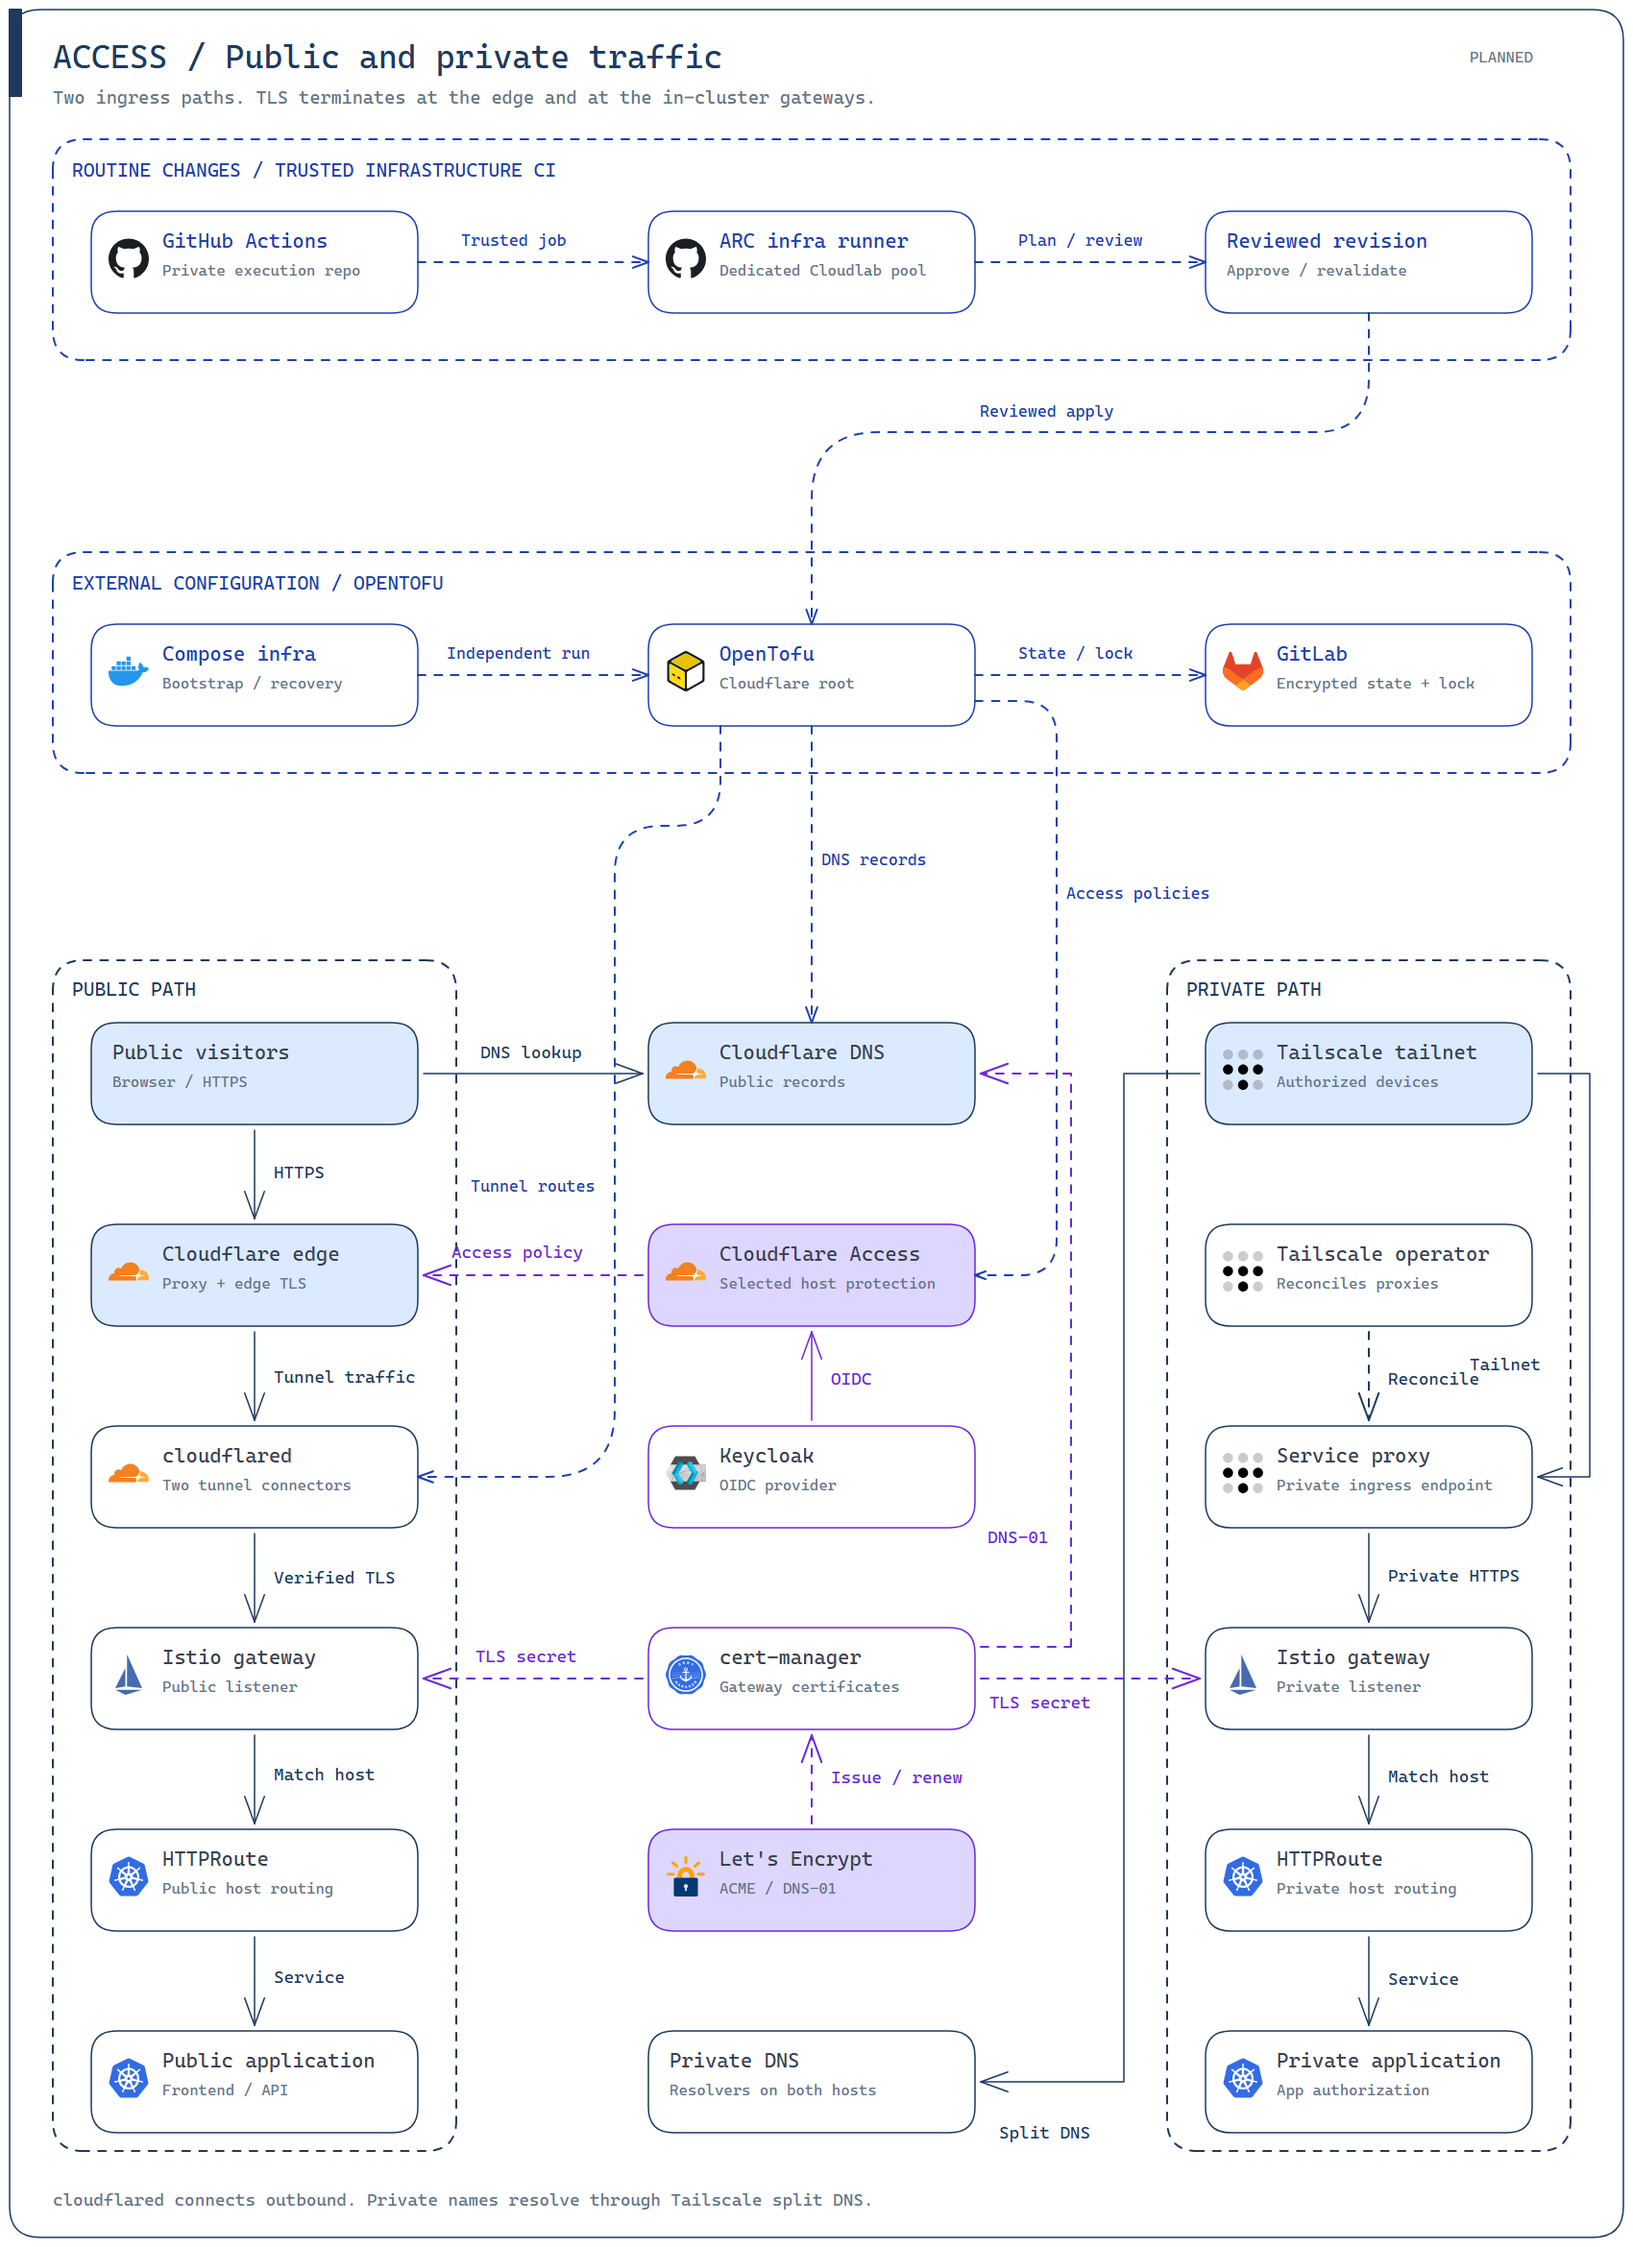
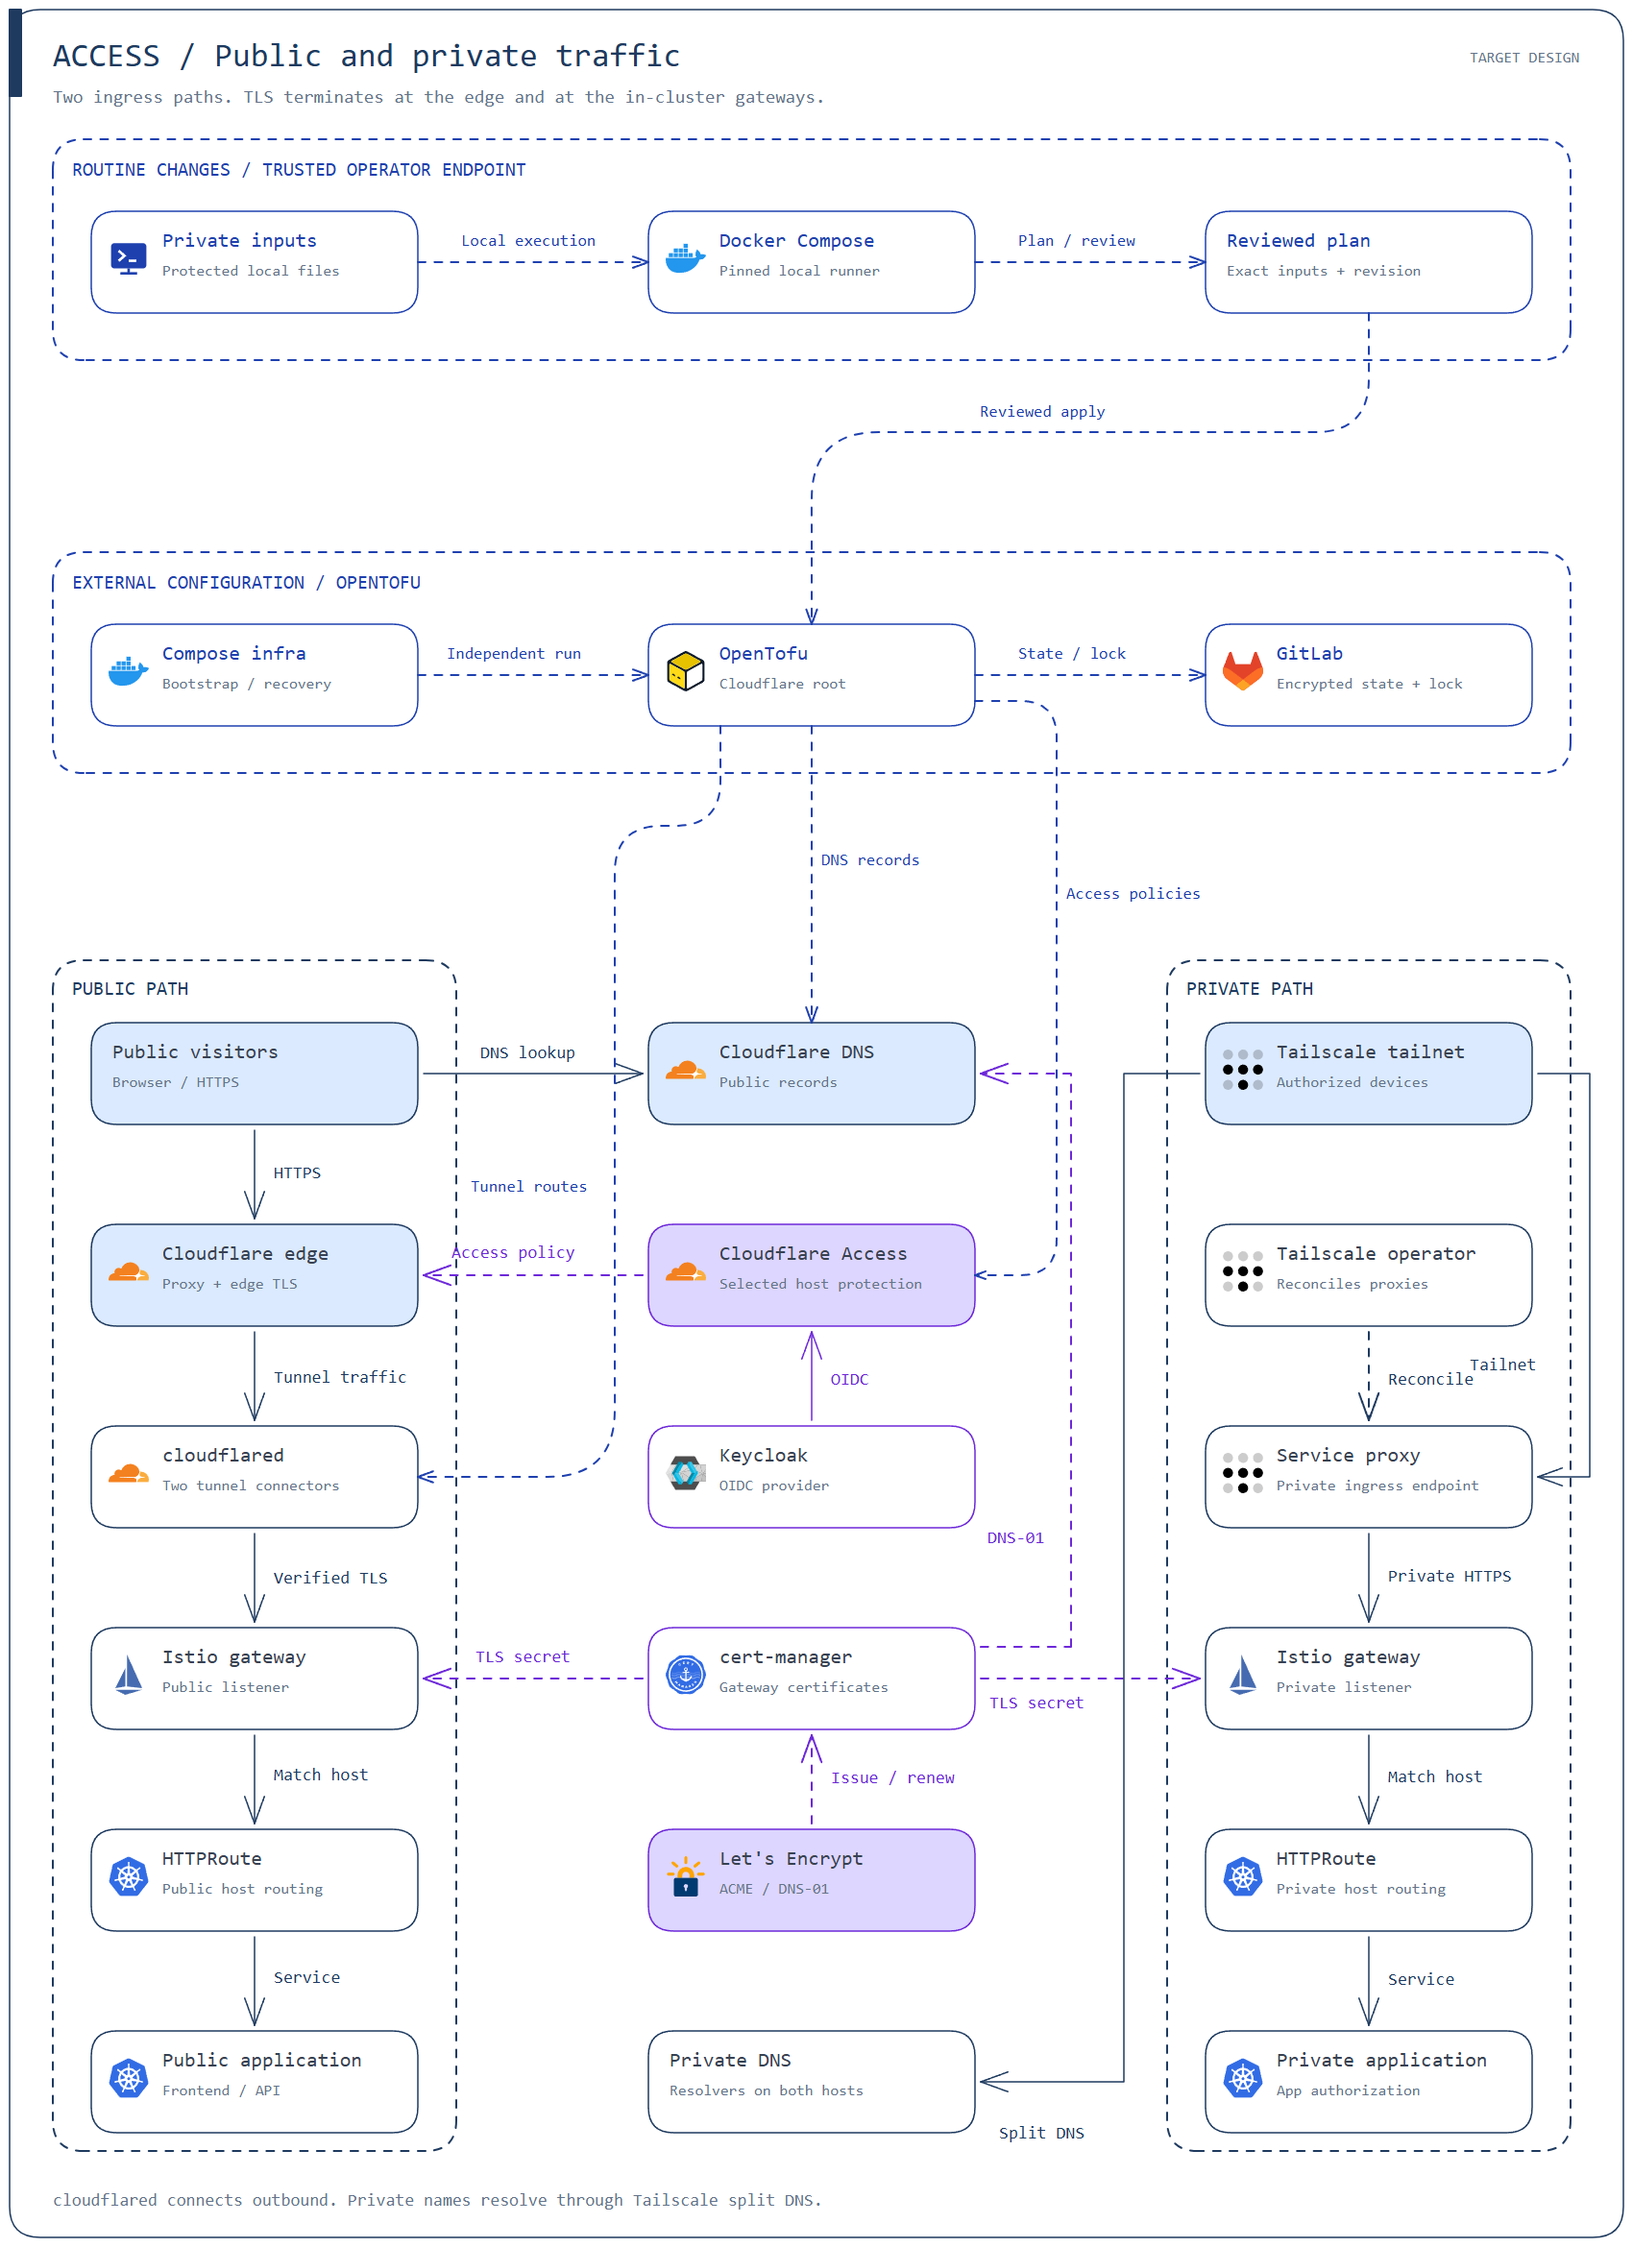
docs: review all architecture views and refresh captions

diff --git a/README.md b/README.md
@@ -6,6 +6,9 @@ A K3s cluster on two cloud VMs, managed with Ansible and Docker Compose.
 
 ## Architecture
 
+Ansible manages hosts, Argo CD manages Kubernetes, and local Compose runs OpenTofu
+for external resources. GitLab stores encrypted infrastructure state.
+
 ![Architecture](assets/arch.png)
 
 ## The lab
@@ -118,12 +121,12 @@ Deployment still depends on inputs and verification.
 | Identity | Keycloak | Realm configuration, passkeys and application OIDC | Available |
 | Recovery | SQLite + restic | Monthly control plane export with separate credentials and recovery checks | Available |
 | Packaging | Helm | Versioned workload charts | Available |
-| Runners | ARC | Separate application and infrastructure runners | Planned |
+| Runners | ARC | Ephemeral runners for trusted application builds | Planned |
 | Registry | Harbor | Private images and OCI charts | Planned |
 | Builds | BuildKit | Rootless image builds | Planned |
 | Supply chain | Trivy + Cosign | Scan, sign and verify images | Planned |
 | Policy | Kyverno | Admission and image policies | Planned |
-| GitOps | ApplicationSet | Admin-approved app deployments and scoped data requests | Enabled |
+| GitOps | ApplicationSet | Admin-approved app deployments and scoped data requests | Available |
 | Releases | Argo Rollouts | Canary releases and previews | Planned |
 | Metrics | Prometheus + Alertmanager | Metrics, SLOs and alerts | Available |
 | Logs | Grafana Alloy + Loki | Collect and store redacted logs | Available |
@@ -143,7 +146,7 @@ volume.
 | Public access | Cloudflare Tunnel + Access | Outbound tunnel, verified origin HTTPS and explicit human/machine policies | Available |
 | Source | GitHub | Code and GitOps repositories | Available |
 | Certificates | Let's Encrypt | Public TLS certificates | Available |
-| Infrastructure state | GitLab | Encrypted state with a separate lock for each root | In progress ([#122](https://github.com/UncleThreeHomeLab/yasai-cloudlab/pull/122)) |
+| Infrastructure state | GitLab | Encrypted state with a separate lock for each root | Available |
 | Monitoring | UptimeRobot | Independent HTTPS checks and email alerts | Available |
 
 ### Automation
@@ -152,30 +155,35 @@ volume.
 | --- | --- | --- |
 | Ansible | Configure and verify hosts and the cluster | Available |
 | Docker Compose | Run the pinned automation environment | Available |
-| OpenTofu | Manage external resources locally through Compose | In progress ([#122](https://github.com/UncleThreeHomeLab/yasai-cloudlab/pull/122)) |
+| OpenTofu | Manage external resources locally through Compose | Available |
 | GitHub Actions | Trusted application builds through ARC | Planned |
 | Renovate | Reviewed dependency updates | Planned |
 
 ## Detailed flows
+
+Diagrams show the target design, including planned components. The stack tables
+show implementation status.
 
 ### Access
 
 Cloudflare Tunnel carries public requests to the public Istio gateway.
 Tailscale carries private requests to a separate gateway. Both route to apps over
 HTTPS. cert-manager manages certificates and Cloudflare Access protects selected public hosts.
+Local Compose runs apply reviewed OpenTofu changes to Cloudflare DNS, tunnel routes
+and Access policies. Certificate DNS-01 records remain with cert-manager.
 
 ![Access](assets/access.png)
 
 ### Identity
 
-Users sign in through Keycloak. Apps use OIDC tokens and roles to control access.
+Users sign in through Keycloak. The platform realm serves operator tools; the
+applications realm serves apps. Serialized config-cli jobs reconcile managed
+identity settings. Apps validate OIDC access tokens and roles to control access.
 External Secrets copies scoped credentials from 1Password into Kubernetes.
 Background refreshes run once a day to bound vault requests. Explicit
 credential rotations request immediate refresh; failed synchronization retains
 existing Secrets and reports degraded health. Other vault edits can take up to
 24 hours to reach applications.
-Kiali inspects the control plane through pod port-forwarding restricted to
-`istio-system`; its workload configuration access remains read-only.
 Apply retries an exhausted root or identity sync only when its failures were
 ExternalSecrets that became Ready after the failed operation. Other failures
 remain visible; retries preserve the source, credentials and data.
@@ -185,34 +193,43 @@ Istio encrypts traffic between workloads and checks which services may communica
 
 ### Delivery
 
-GitHub Actions runs trusted builds on ARC workers in Cloudlab. Images are built,
-scanned, signed and stored in Harbor. Argo CD reads public or private GitOps repos
-and deploys the selected images. OpenTofu runs locally through Compose on a trusted
+The planned build path uses GitHub Actions and ARC workers in Cloudlab. Images
+are built, scanned, signed and stored in Harbor. Argo CD reads public or private
+GitOps repos and deploys the selected images. OpenTofu runs locally through Compose on a trusted
 operator endpoint. GitHub governance uses a separate Compose client.
 
 ![Delivery](assets/delivery.png)
 
 ### Releases
 
-Argo Rollouts sends a small share of traffic to a new revision. Prometheus metrics
-and k6 tests guide promotion or rollback. ApplicationSet creates private previews
-for approved revisions. Preview resources are removed when the preview closes or expires.
+The planned release path uses Argo Rollouts and a Gateway API plugin to adjust
+HTTPRoute weights. Per-revision Prometheus metrics and bounded k6 tests guide
+promotion or abort; missing metrics or insufficient samples block promotion.
+ApplicationSet creates private previews for exact approved revisions. Dedicated
+cleanup removes previews when their PR closes or their lifetime expires.
 
 ![Releases](assets/releases.png)
 
 ### Data
 
 Apps use PostgreSQL managed by CloudNativePG and private S3 storage from SeaweedFS.
-Longhorn replicates their volumes across both VMs. Coordinated monthly backups go
-to B2. Isolated restores check that databases and objects can be recovered.
+The data module provisions application SQL grants and buckets.
+Longhorn replicates their volumes across both VMs; the database and S3 services
+remain single-instance. Coordinated monthly Longhorn backups go to B2.
+Isolated restores check databases and objects together. Replication is not backup.
 
 ![Data](assets/data.png)
 
 ### Observability
 
 Prometheus collects metrics. Alloy sends logs to Loki and traces to Tempo.
+Git provisions dashboards, data sources and alert rules.
 Grafana brings these signals together, Kiali shows mesh traffic and Alertmanager
-routes alerts. UptimeRobot checks public access independently. Telemetry stays on local storage.
+routes alerts. Grafana and Kiali require Keycloak. Kiali reads mesh configuration
+and inspects the control plane through pod port-forwarding restricted to
+`istio-system`. UptimeRobot checks public health independently every five minutes
+and sends outage and recovery emails. Telemetry stays on local Longhorn storage
+with bounded retention and no routine B2 backup.
 
 ![Observability](assets/observability.png)
 
